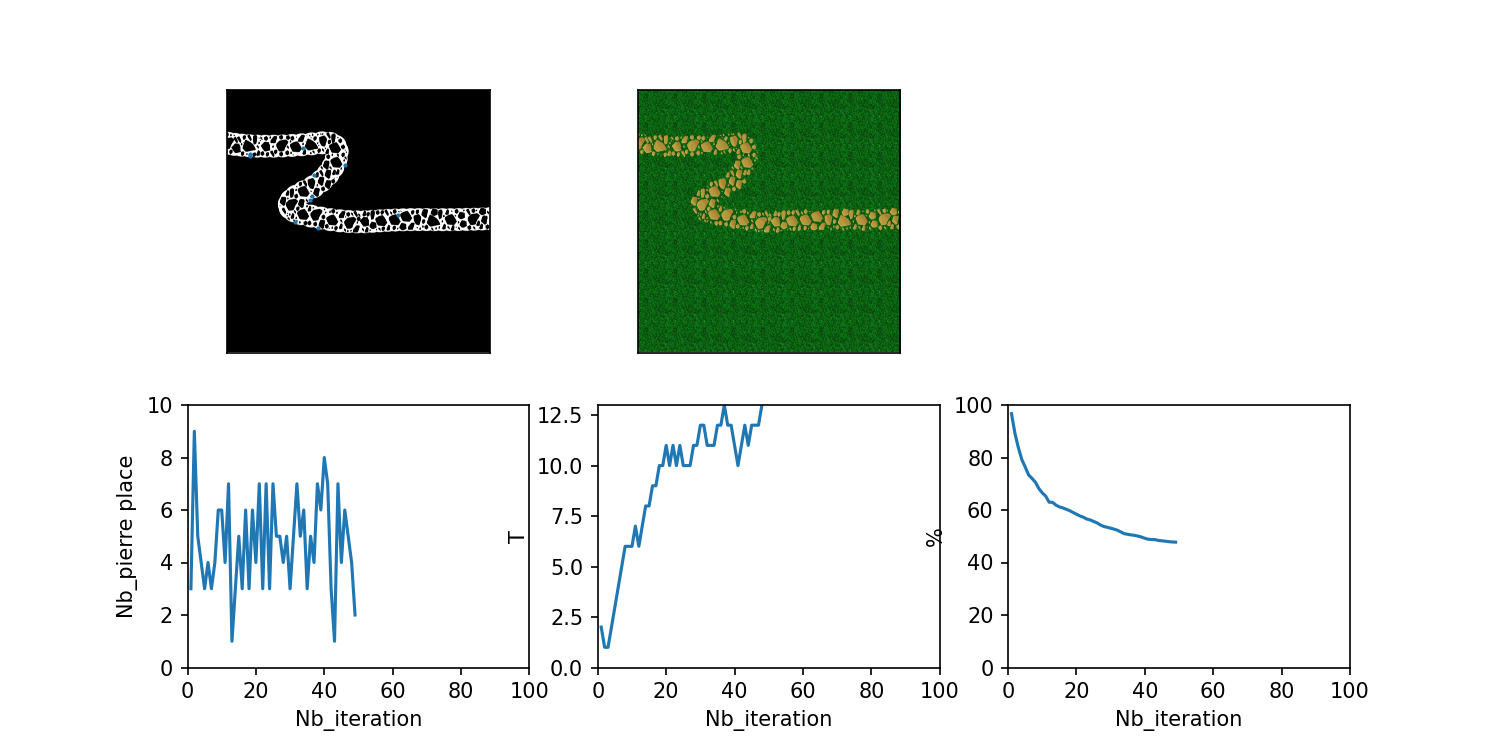
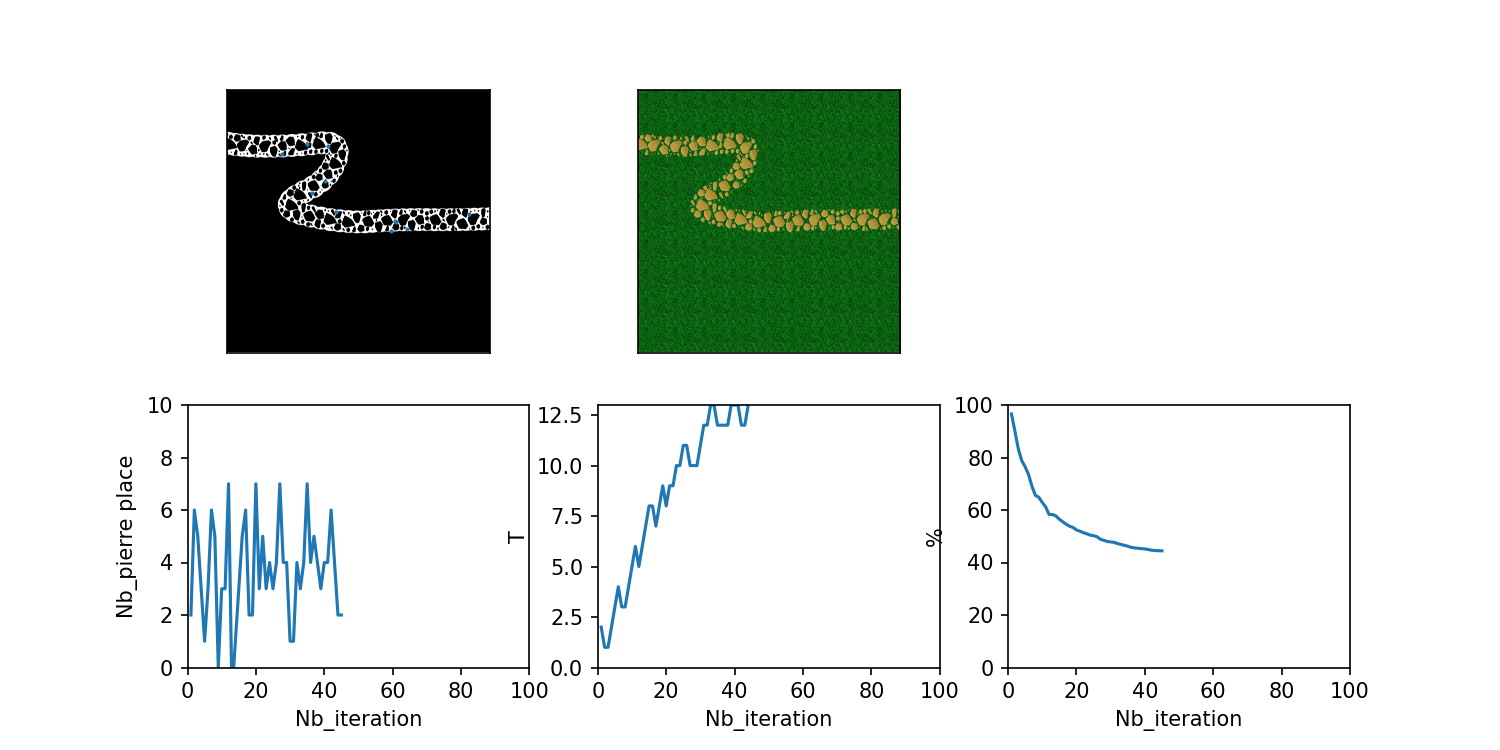
pierre

diff --git a/bin/placementPierre.py b/bin/placementPierre.py
@@ -90,9 +90,8 @@ update(ax1,ax2,ax3,ax4,ax5,mask_array,environnement,densite_graph,sorted_point,n
 
 
 while not stop:
-    nb_pierre_place_k = 0
-    ### Meilleur placement trouver par fast_marching
     echec = 0
+    ### Meilleur placement trouver par fast_marching
     ### Placement de T pierre
     for i in index:
         ## Selection de la pierre
@@ -135,26 +134,26 @@ while not stop:
 
             ## Maj masque
             mask_array[xmin:xmax,ymin:ymax] = mask_array[xmin:xmax,ymin:ymax]*(-mask_pierre[xpmin:xpmax,ypmin:ypmax]+1)
-            nb_pierre_place_k = nb_pierre_place_k + 1
             densite_k = densite_k-ListeTaillePierre[num_pierre]
         else:
             echec = echec+1
     if (echec > nb_pierre_pass/1.5):
         T = T + 1
     else:
-        if(T > 1 and echec < (nb_pierre_pass/2)):
+        if(T > 1 and (echec < (nb_pierre_pass/2))):
             T = T - 1
     if T > 13:
         stop = True
 
+    ## Maj
     k = k+1
     nb_iter.append(k)
-    nb_pierre_place.append(nb_pierre_place_k)
+    nb_pierre_place.append(nb_pierre_pass-echec)
     T_grap.append(T)
     densite_graph.append((densite_k/densite_div) *100)
     sorted_point = np.unravel_index(sort[0:int(pas):int(pas/nb_pierre_pass)],res.shape)
     update(ax1,ax2,ax3,ax4,ax5,mask_array,environnement,densite_graph,sorted_point,nb_iter)
-    if nb_pierre_place_k != 0:
+    if nb_pierre_pass-echec != 0:
         res = skfmm.distance(mask_array,dx=1)
         sort = np.argsort(-res,axis=None)
         index = np.unravel_index(sort[0:int(pas):int(pas/nb_pierre_pass)], res.shape)
